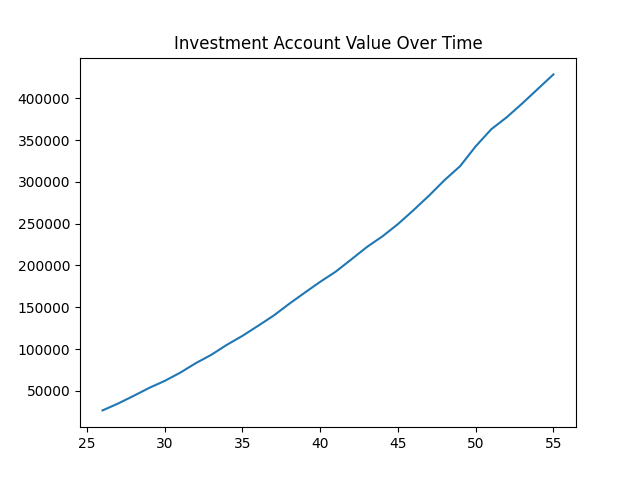
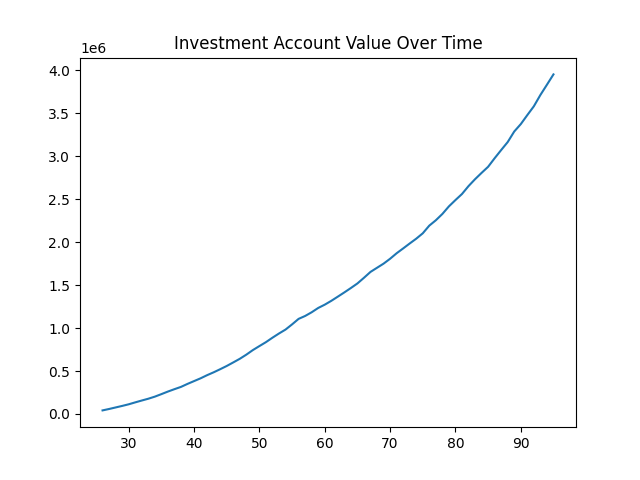
Added the ability to simulate the growth of a salary over time (using similar methods to the investment accounts)

diff --git a/investment_accounts.py b/investment_accounts.py
@@ -9,28 +9,52 @@ class investment_account:
         self.principal = principal
         print("Initialized investment account named " + self.name )
 
-    def simulate(self, principal_update, return_range, means, std_devs, sim_length):
+    def simulate_growth(self, user, principal_update, means, std_devs):
         # the goal here is to implement monte carlo simulations eventually, but to get this running I just want to plug in some pretty simple exponential growth
+        
+        # start by calculating the simulation length, which should run until the user dies
+        sim_length = user.death_age - user.age + 1
+        accumulate_wealth_duration = user.retirement_age - user.age + 1
+        withdraw_wealth_duration = user.death_age - user.retirement_age + 1
 
         # assume the return range is normally distributed about the mean with given std_dev
         means_by_year, std_devs_by_year = self.model_progressive_conservatism(means, std_devs, sim_length)
         return_by_year = np.zeros((sim_length,1))
         for index in range(0, sim_length):
             return_by_year[index] = np.random.normal(means_by_year[index], std_devs_by_year[index],1)
-        plt.figure()
-        plt.plot(np.arange(26,56,1), return_by_year)
-        plt.title("Investment Account Yearly Return Over Time")
-        plt.savefig("account_return_over_time.png")
 
-        # just working with the minimum return range now, and I'll assume it's compounded continuously (most optimal)
-        account_value = np.zeros((sim_length,1))
+        # just working with the minimum return range now, and I'll assume it's compounded yearly
+        self.account_value = np.zeros((sim_length,1))
         for index in range(0, sim_length):
             if index == 0:
-                account_value[index] = self.principal
-            else:
-                account_value[index] = principal_update[index-1] + account_value[index-1] * (1 + return_by_year[index])
+                self.account_value[index] = self.principal
+            else: # account is simulated until death, but the values will be updated depending on withdrawls 
+                self.account_value[index] = principal_update[index-1] + self.account_value[index-1] * (1 + return_by_year[index])
 
-        return account_value
+            #else: # we are withdrawing from the account at thsi point
+            #    self.account_value[index] = -user.salary + self.account_value[index-1] * (1 + return_by_year[index])
+            #    if(self.account_value[index] <= 0):
+            #        self.account_value[index] = 0
+
+        # plot results for fun
+        plt.figure()
+        plt.plot(np.arange(user.age,user.death_age+1,1), return_by_year)
+        plt.title("Investment Account Yearly Return Over Time")
+        plt.savefig(self.name + "_account_return_over_time.png")
+
+        return self.account_value
+
+    def simulate_decay(self, user, accounts, percentage_of_final_salary):
+        # the previous method simulates the growth of an investment account while the principal contribution is being continuously updated. This method will show what happens once the account decays
+
+        # for now, I'll assume it's most optimal to draw from the smallest accounts first, since they will make less returns by year than the larger accounts
+        num_accounts = len(accounts)
+        account_values_at_retirement = np.zeros((num_accounts, 1))
+        counter = 0
+        for account in accounts:
+            account_values_at_retirement[counter] = account.account_value[-1]
+            print("Account " + account.name + " value at retirement: " + str(account_values_at_retirement[counter]))
+            counter += 1
 
     def model_progressive_conservatism(self, means, std_devs, sim_length):
         # I want something that will show that early in life we'll be more aggressive with our investments, so we get higher average return, but with larger standard deviations. As we get older, our investment straegy becomes more conservative, so our means and standard deviations become smaller

diff --git a/users.py b/users.py
@@ -1,4 +1,7 @@
 import csv
+import numpy as np
+import matplotlib as mpl
+import matplotlib.pyplot as plt
 
 class User:
 
@@ -24,12 +27,58 @@ class User:
     def set_gender(self, gender):
         self.gender = gender
 
-    def calculate_death_age(self):
-        with open('actuarial_tables_2019_2022.csv', newline='', ) as csvfile:
+    def calculate_death_age(self, ):
+        with open('actuarial_tables_2019_2022.csv', newline='') as csvfile:
             self.actuarial_table = list(csv.reader(csvfile, delimiter=',', quoting=csv.QUOTE_NONNUMERIC))
+            running_sum = 0
+            for row in range(len(self.actuarial_table)):
+                running_sum += self.actuarial_table[row][1]
+                print("The cumulative probability of dying at age " + str(row) + " is: " + str(running_sum))
             if self.gender == "male":
                 self.death_age = self.age + self.actuarial_table[self.age][3]
             else:
                 self.death_age = self.age + self.actuarial_table[self.age][6]
 
             print("User " + self.name + " is projected to die at age " + str(self.death_age))
+
+    def set_death_age(self, death_age):
+        self.death_age = death_age
+
+    def simulate_salary_growth(self, means, std_devs):
+        # define durations for both the object and to be used in this simulation
+        self.sim_length = self.death_age - self.age + 1
+        self.accumulate_wealth_duration = self.retirement_age - self.age + 1
+        self.withdraw_wealth_duration = self.death_age - self.retirement_age + 1
+
+        means_by_year, std_devs_by_year = self.model_progressive_conservatism(means, std_devs, self.accumulate_wealth_duration)
+
+        self.increase_by_year = np.zeros((self.accumulate_wealth_duration,1))
+        for index in range(0, self.accumulate_wealth_duration):
+            self.increase_by_year[index] = np.random.normal(means_by_year[index], std_devs_by_year[index], 1)
+
+        # calculate salary per year
+        self.salary_by_year = np.zeros((self.accumulate_wealth_duration,1))
+        for index in range(0, self.accumulate_wealth_duration):
+            if index == 0:
+                self.salary_by_year[index] = self.salary
+            else:
+                self.salary_by_year[index] = self.salary_by_year[index-1] * (1 + self.increase_by_year[index])
+
+        # plot the salary (for fun)
+        plt.figure()
+        plt.plot(np.arange(self.age, self.retirement_age+1, 1), self.salary_by_year)
+        plt.title("Salary Per Year Until Retirement")
+        plt.savefig("salary_over_time.png")
+
+   
+    def model_progressive_conservatism(self, means, std_devs, sim_length):
+        # I want something that will show that early in life we'll be more aggressive with our investments, so we get higher average return, but with larger standard deviations. As we get older, our investment straegy becomes more conservative, so our means and standard deviations become smaller
+        a = (means[0] - means[1])/(np.log(1/sim_length))
+        b = np.exp( (means[1]*np.log(1) - means[0]*np.log(sim_length)) / (means[0]-means[1]) )
+        out_means = a * np.log(b * np.arange(1,sim_length+1)) 
+
+        a = (std_devs[0] - std_devs[1])/(np.log(1/sim_length))
+        b = np.exp( (std_devs[1]*np.log(1) - std_devs[0]*np.log(sim_length)) / (std_devs[0]-std_devs[1]) )
+        out_std_devs = a * np.log(b * np.arange(1,sim_length+1)) 
+
+        return out_means, out_std_devs

diff --git a/main.py b/main.py
@@ -9,34 +9,26 @@ import numpy as np
 
 def main():
     print("Hello World!")
-    test_account = investment_account("Roth IRA", 26658.70)
     jake = User("Jake", 26, "male", 55)
-    jake.calculate_death_age()
+    test_account = investment_account("Roth IRA", 26658.70)
+    test_account2 = investment_account("401K", 15063.55)
 
-    jake.set_salary(84000)
+    #jake.calculate_death_age()
+    jake.set_death_age(95)
 
-    # calculate out the growth of my salary until I retire
-    salary_over_time = np.zeros((jake.retirement_age-jake.age+1, 1))
-    salary_over_time[0] = jake.salary
+    jake.set_salary(97000)
+    jake.simulate_salary_growth([0.05, 0.01], [0.02, 0.005])
 
-    age_range = np.arange(jake.age, jake.retirement_age + 1, 1)
+    # now try and simulate the growth of some investment accounts
+    principal_update_by_year = np.vstack((6500*np.ones((jake.accumulate_wealth_duration,1)), np.zeros((jake.withdraw_wealth_duration, 1))))
+    principal_update_by_year2 = np.vstack((0.07*jake.salary_by_year, np.zeros((jake.withdraw_wealth_duration,1))))
+    account_value = test_account.simulate_growth(jake, principal_update_by_year, [0.08, 0.03], [0.02, 0.005])
+    account_value2 = test_account2.simulate_growth(jake, principal_update_by_year2, [0.08, 0.03], [0.02, 0.005])
 
-    for year in range(1, salary_over_time.size):
-        salary_over_time[year] = salary_over_time[year-1] + (salary_over_time[year-1]*0.03)
+    #jake.simulate_decay([test_account, test_account2], 0.9)
 
-
-    #fig, ax = plt.subplots()
-    #ax.plot(age_range, salary_over_time)
     plt.figure()
-    plt.plot(age_range, salary_over_time)
-    plt.title("Jake's Salary Over Time")
-    plt.savefig("salary_over_time.png")
-
-    # now try and simulate the growth of an investment account
-    principal_update_by_year = 6500*np.ones((jake.retirement_age-jake.age,1))
-    account_value = test_account.simulate(principal_update_by_year, [0.03, 0.05], [0.08, 0.03], [0.02, 0.005], jake.retirement_age-jake.age+1)
-    plt.figure()
-    plt.plot(age_range, account_value)
+    plt.plot(np.arange(jake.age, jake.death_age+1, 1), account_value+account_value2)
     plt.title("Investment Account Value Over Time")
     plt.savefig("account_over_time.png")
 
